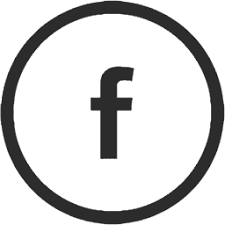
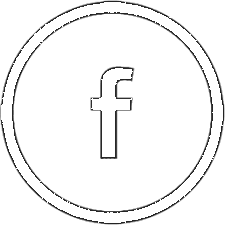
Notificacion Tray

Changed region(s): [[0.0, 0.0, 0.9956, 0.9956], [0.4044, 0.28, 0.5911, 0.7156]]

diff --git a/src/main/java/com/ungs/formar/Main.java b/src/main/java/com/ungs/formar/Main.java
@@ -35,17 +35,17 @@ public class Main {
 		*/
 		if(SystemTray.isSupported()){
 			SystemTray tray = SystemTray.getSystemTray();
-			ImageIcon image2 = new ImageIcon("imagenes/icono.png");
+			ImageIcon image2 = new ImageIcon("imagenes/tray image.png");
 			Image image = image2.getImage();
 			TrayIcon trayIcon = new TrayIcon(image);
 			trayIcon.setImageAutoSize(true);
+
 			try {
 				tray.add(trayIcon);
 			} catch (AWTException e) {
-				// TODO Auto-generated catch block
 				e.printStackTrace();
 			}
-			trayIcon.displayMessage("Hola", "Bienvenido al sistema FormAR.", MessageType.INFO);
+			trayIcon.displayMessage("Hola", "Bienvenido al sistema FormAR.", MessageType.NONE);
 		}
 		
 		VentanaIniciarSesion v = new VentanaIniciarSesion();
